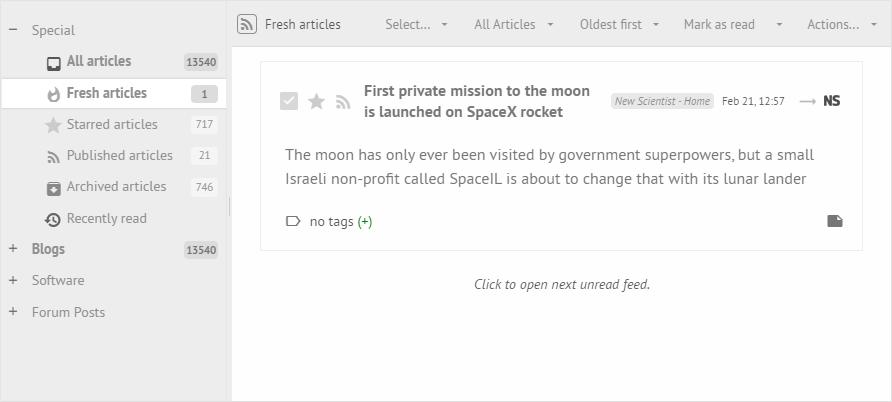
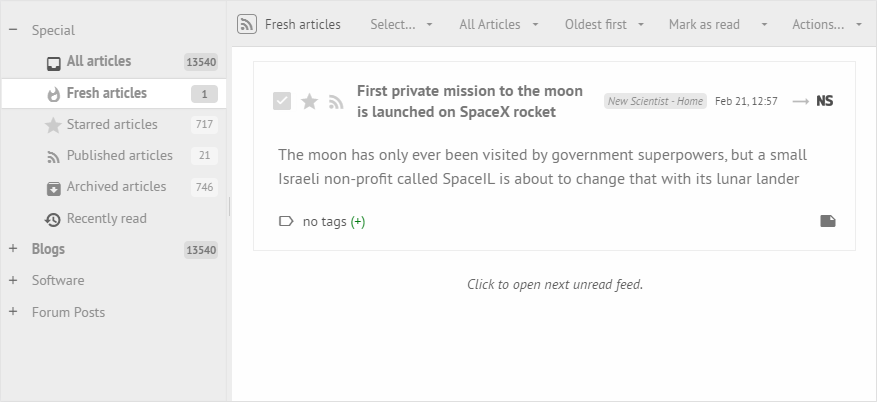
1.0.4
- Added hint to use different font for article contents
- Equal margins around articles
- Align checkboxes in Edit Feed dialog
- Updated screenshot for GitHub's width
- Customization tip

diff --git a/feedmei.css b/feedmei.css
@@ -28,6 +28,10 @@
 		filter: grayscale(100%);
 	}
 
+/* Article font (uncomment to use):
+.content-inner * { font-family: serif !important }
+*/
+
 body.ttrss_main #feeds-holder,
 body.ttrss_main #feeds-holder_splitter,
 body.ttrss_main #toolbar-frame,
@@ -89,7 +93,7 @@ body.ttrss_main #feeds-holder #feedTree .dijitTreeRow.Error .dijitTreeLabel {
 	color: #a33;
 }
 
-.dijitTreeExpando, .dijitTreeRow .dijitCheckBox, .prefs-set .dijitCheckBox {
+.dijitTreeExpando, .dijitTreeRow .dijitCheckBox, fieldset.prefs-set .dijitCheckBox, fieldset.narrow .dijitCheckBox {
 	top: -4px !important;
 }
 
@@ -145,7 +149,7 @@ body.ttrss_main #headlines-frame div.feed-title {
 }
 
 div.cdm.expanded {
-	margin: 1em 2em;
+	margin: 1.5em;
 	padding: 1em;
 	color: #555 !important;
 	border: 1px solid #eee;

diff --git a/README.md b/README.md
@@ -5,3 +5,13 @@ A clean and minimal theme for [Tiny Tiny RSS](https://tt-rss.org), loosely inspi
 
 ## Installation
 Just copy all files into the `themes.local` folder of your Tiny Tiny RSS installation.
+
+## Customization Tip
+Put some space between the article and the header when scrolling. In `rss/js/Article.js` change:
+```
+				ctr.scrollTop = e.offsetTop;
+```
+into
+```
+				ctr.scrollTop = e.offsetTop - 21;
+```
